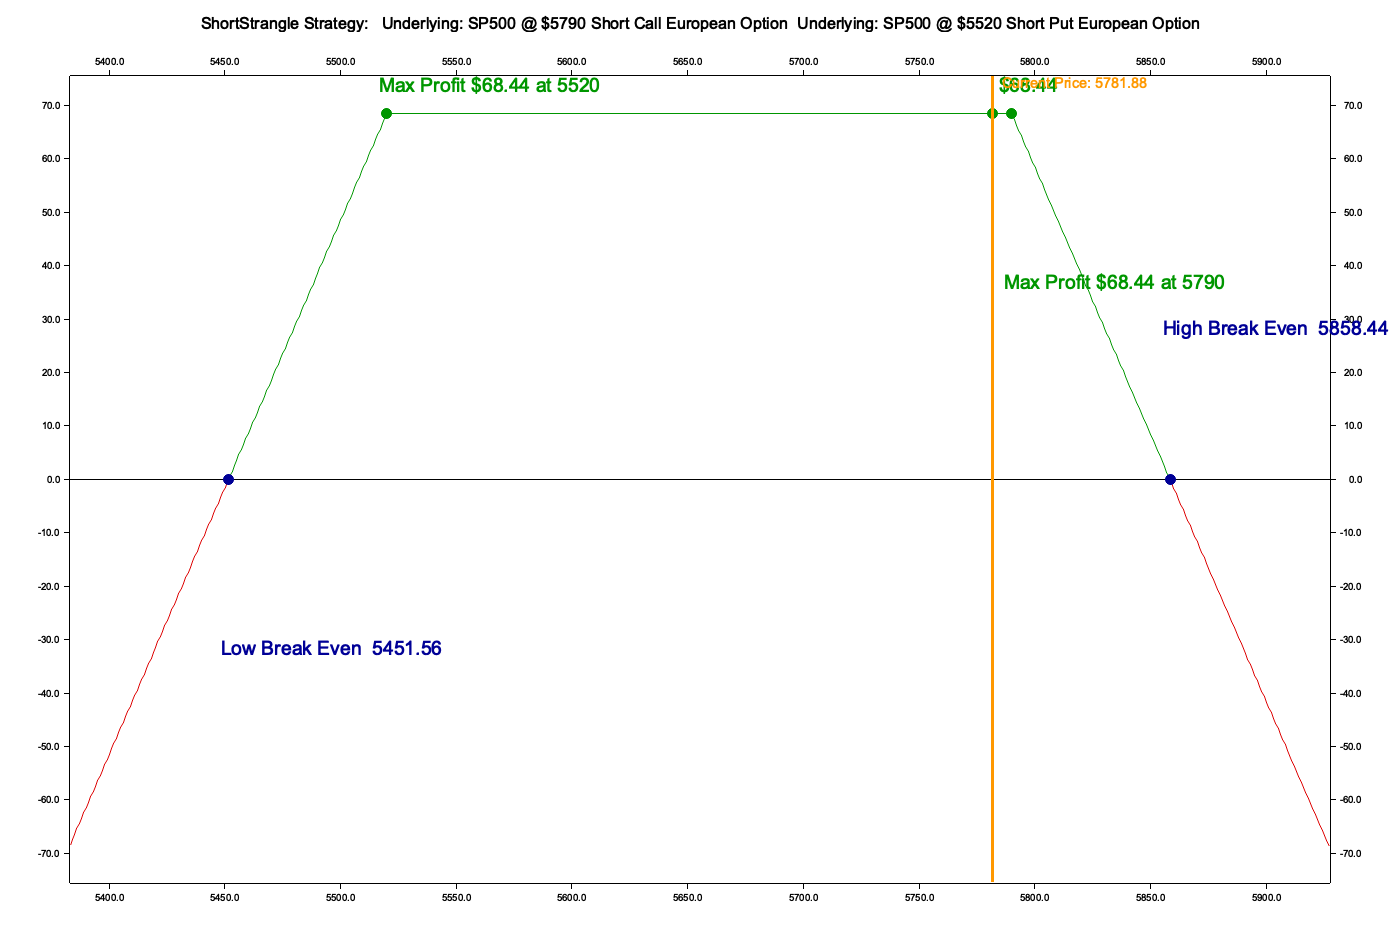
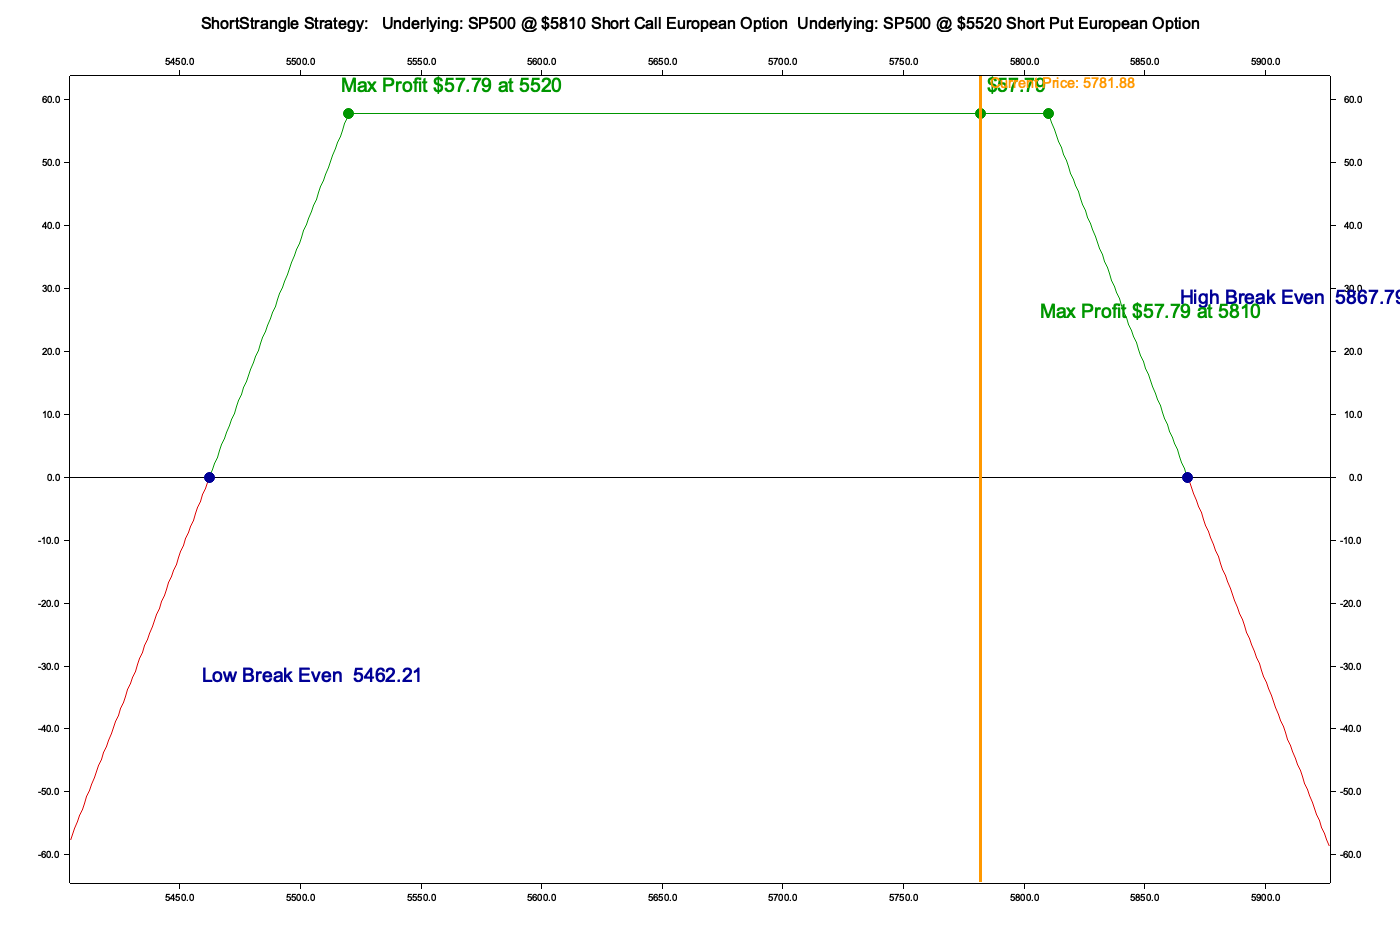
Add DeltaRange filter for strategies and improve delta handling
Introduced a new `DeltaRange` filter to `FindOptimalSide`, enabling delta-based option selection for strategies. Updated relevant methods and examples to support and utilize this new filter. Also added utility methods for delta retrieval and adjusted strategy logic to consider delta sensitivity.

diff --git a/src/strategies/poor_mans_covered_call.rs b/src/strategies/poor_mans_covered_call.rs
@@ -54,7 +54,7 @@ use plotters::prelude::full_palette::ORANGE;
 use plotters::prelude::{RED, ShapeStyle};
 use rust_decimal::Decimal;
 use std::error::Error;
-use tracing::{debug, error};
+use tracing::debug;
 
 const PMCC_DESCRIPTION: &str = "A Poor Man's Covered Call (PMCC) is an options strategy that simulates a covered call \
     using long-term equity anticipation securities (LEAPS) instead of the underlying stock. \
@@ -586,94 +586,6 @@ impl Optimizable for PoorMansCoveredCall {
                     *self = strategy.clone();
                 }
             }
-        }
-    }
-
-    fn is_valid_short_option(&self, option: &OptionData, side: &FindOptimalSide) -> bool {
-        let underlying_price = self.short_call.option.underlying_price;
-        if underlying_price == Positive::ZERO {
-            error!("Invalid underlying_price option");
-            return false;
-        }
-
-        match side {
-            FindOptimalSide::Upper => {
-                let valid = option.strike_price >= underlying_price;
-                if !valid {
-                    debug!(
-                        "Short Option is out of range: {} <= {}",
-                        option.strike_price, underlying_price
-                    );
-                }
-                valid
-            }
-            FindOptimalSide::Lower => {
-                let valid = option.strike_price <= underlying_price;
-                if !valid {
-                    debug!(
-                        "Short Option is out of range: {} >= {}",
-                        option.strike_price, underlying_price
-                    );
-                }
-                valid
-            }
-            FindOptimalSide::All => true,
-            FindOptimalSide::Range(start, end) => {
-                let valid = option.strike_price >= *start && option.strike_price <= *end;
-                if !valid {
-                    debug!(
-                        " Short Option is out of range: {} >= {} && {} <= {}",
-                        option.strike_price, *start, option.strike_price, *end
-                    );
-                }
-                valid
-            }
-            FindOptimalSide::Deltable(_threshold) => true,
-            FindOptimalSide::Center => option.strike_price <= self.get_underlying_price(),
-        }
-    }
-
-    fn is_valid_long_option(&self, option: &OptionData, side: &FindOptimalSide) -> bool {
-        let underlying_price = self.long_call.option.underlying_price;
-        if underlying_price == Positive::ZERO {
-            error!("Invalid underlying_price option");
-            return false;
-        }
-
-        match side {
-            FindOptimalSide::Upper => {
-                let valid = option.strike_price >= underlying_price;
-                if !valid {
-                    debug!(
-                        "Long Option is out of range: {} <= {}",
-                        option.strike_price, underlying_price
-                    );
-                }
-                valid
-            }
-            FindOptimalSide::Lower => {
-                let valid = option.strike_price <= underlying_price;
-                if !valid {
-                    debug!(
-                        "Long Option is out of range: {} >= {}",
-                        option.strike_price, underlying_price
-                    );
-                }
-                valid
-            }
-            FindOptimalSide::All => true,
-            FindOptimalSide::Range(start, end) => {
-                let valid = option.strike_price >= *start && option.strike_price <= *end;
-                if !valid {
-                    debug!(
-                        "Long Option is out of range: {} >= {} && {} <= {}",
-                        option.strike_price, *start, option.strike_price, *end
-                    );
-                }
-                valid
-            }
-            FindOptimalSide::Deltable(_threshold) => true,
-            FindOptimalSide::Center => option.strike_price >= self.get_underlying_price(),
         }
     }
 

diff --git a/src/strategies/strangle.rs b/src/strategies/strangle.rs
@@ -568,13 +568,23 @@ impl Optimizable for ShortStrangle {
             .get_double_iter()
             // Filter out invalid combinations based on FindOptimalSide
             .filter(move |(short_put, short_call)| {
-                if side == FindOptimalSide::Center {
-                    short_put.is_valid_optimal_side(underlying_price, &FindOptimalSide::Lower)
-                        && short_call
-                            .is_valid_optimal_side(underlying_price, &FindOptimalSide::Upper)
-                } else {
-                    short_put.is_valid_optimal_side(underlying_price, &side)
-                        && short_call.is_valid_optimal_side(underlying_price, &side)
+                match side {
+                    FindOptimalSide::DeltaRange(min, max) => {
+                        let (_, delta_put) = short_put.current_deltas();
+                        let (delta_call,_) = short_call.current_deltas();
+                         delta_put.unwrap() > min && delta_put.unwrap() < max &&
+                            delta_call.unwrap() > min && delta_call.unwrap() < max
+                    }
+                    FindOptimalSide::Center=> {
+                            short_put.is_valid_optimal_side(underlying_price, &FindOptimalSide::Lower)
+                                && short_call
+                                    .is_valid_optimal_side(underlying_price, &FindOptimalSide::Upper)
+                    }
+                    _ => {
+                        short_put.is_valid_optimal_side(underlying_price, &side)
+                               && short_call.is_valid_optimal_side(underlying_price, &side)
+                    }
+
                 }
             })
             .filter(move |(short_put, short_call)| short_put.strike_price < short_call.strike_price)
@@ -1451,15 +1461,24 @@ impl Optimizable for LongStrangle {
         let strategy = self.clone();
         option_chain
             .get_double_iter()
-            // Filter out invalid combinations based on FindOptimalSide
             .filter(move |(long_put, long_call)| {
-                if side == FindOptimalSide::Center {
-                    long_put.is_valid_optimal_side(underlying_price, &FindOptimalSide::Lower)
-                        && long_call
+                match side {
+                    FindOptimalSide::DeltaRange(min, max) => {
+                        let (_, delta_put) = long_put.current_deltas();
+                        let (delta_call,_) = long_call.current_deltas();
+                        delta_put.unwrap() > min && delta_put.unwrap() < max && 
+                            delta_call.unwrap() > min && delta_call.unwrap() < max
+                    }
+                    FindOptimalSide::Center=> {
+                        long_put.is_valid_optimal_side(underlying_price, &FindOptimalSide::Lower)
+                            && long_call
                             .is_valid_optimal_side(underlying_price, &FindOptimalSide::Upper)
-                } else {
-                    long_put.is_valid_optimal_side(underlying_price, &side)
-                        && long_call.is_valid_optimal_side(underlying_price, &side)
+                    }
+                    _ => {
+                        long_put.is_valid_optimal_side(underlying_price, &side)
+                            && long_call.is_valid_optimal_side(underlying_price, &side)
+                    }
+                    
                 }
             })
             .filter(move |(long_put, long_call)| long_put.strike_price < long_call.strike_price)
@@ -1474,6 +1493,7 @@ impl Optimizable for LongStrangle {
                     first: long_put,
                     second: long_call,
                 };
+                
                 let strategy = strategy.create_strategy(option_chain, &legs);
                 strategy.validate() && strategy.max_profit().is_ok() && strategy.max_loss().is_ok()
             })

diff --git a/examples/examples_strategies_best/src/bin/strategy_short_strangle_best_area.rs b/examples/examples_strategies_best/src/bin/strategy_short_strangle_best_area.rs
@@ -3,20 +3,24 @@ use optionstratlib::Positive;
 use optionstratlib::chains::chain::OptionChain;
 use optionstratlib::greeks::Greeks;
 use optionstratlib::pos;
-use optionstratlib::strategies::ShortStrangle;
+use optionstratlib::strategies::{DeltaNeutrality, ShortStrangle};
 use optionstratlib::strategies::base::{Optimizable, Strategies};
 use optionstratlib::strategies::utils::FindOptimalSide;
 use optionstratlib::utils::setup_logger;
 use optionstratlib::visualization::utils::{Graph, GraphBackend};
 use rust_decimal::Decimal;
 use std::error::Error;
+use rust_decimal_macros::dec;
 use tracing::{debug, info};
+use optionstratlib::utils::time::get_tomorrow_formatted;
 
 fn main() -> Result<(), Box<dyn Error>> {
     setup_logger();
 
-    let option_chain =
+    let mut option_chain =
         OptionChain::load_from_json("./examples/Chains/SP500-18-oct-2024-5781.88.json")?;
+    option_chain.update_expiration_date(get_tomorrow_formatted());
+    info!("Option Chain:  {}", option_chain);
     let underlying_price = option_chain.underlying_price;
     let mut strategy = ShortStrangle::new(
         "SP500".to_string(),
@@ -36,7 +40,8 @@ fn main() -> Result<(), Box<dyn Error>> {
         pos!(0.82),     // close_fee_short_put
     );
     // strategy.best_area(&option_chain, FindOptimalSide::Range(pos!(5700.0), pos!(6100.0)));
-    strategy.best_area(&option_chain, FindOptimalSide::Center);
+    strategy.best_area(&option_chain, FindOptimalSide::DeltaRange(dec!(-0.3), dec!(0.3)));
+    // strategy.best_area(&option_chain, FindOptimalSide::Center);
     debug!("Strategy:  {:#?}", strategy);
     let range = strategy.range_of_profit().unwrap_or(Positive::ZERO);
     info!("Title: {}", strategy.title());
@@ -60,7 +65,7 @@ fn main() -> Result<(), Box<dyn Error>> {
         (range / 2.0) / underlying_price * 100.0
     );
     info!("Profit Area: {:.2}%", strategy.profit_area()?);
-
+    info!("Delta:  {:#?}", strategy.delta_neutrality()?);
     if strategy.profit_ratio()? > Positive::ZERO.into() {
         debug!("Strategy:  {:#?}", strategy);
         strategy.graph(

diff --git a/src/chains/optiondata.rs b/src/chains/optiondata.rs
@@ -800,6 +800,11 @@ impl OptionData {
             FindOptimalSide::Center => {
                 panic!("Center should be managed by the strategy");
             }
+            FindOptimalSide::DeltaRange(min,max) => {
+                
+                (self.delta_put.is_some() && self.delta_put.unwrap() >= *min && self.delta_put.unwrap() <= *max) ||
+                    (self.delta_call.is_some() && self.delta_call.unwrap() >= *min && self.delta_call.unwrap() <= *max)
+            },
         }
     }
 
@@ -1049,6 +1054,24 @@ impl OptionData {
             short_put,
         }));
         Ok(())
+    }
+
+    /// Returns a tuple containing the current delta values for both call and put options.
+    ///
+    /// This method provides access to the option's delta values, which measure the rate of change
+    /// of the option price with respect to changes in the underlying asset price. Delta values 
+    /// typically range from -1 to 1 and are a key metric for understanding option price sensitivity.
+    ///
+    /// # Returns
+    ///
+    /// A tuple containing:
+    /// * First element: `Option<Decimal>` - The delta value for the call option. May be `None` if 
+    ///   the delta value is not available or could not be calculated.
+    /// * Second element: `Option<Decimal>` - The delta value for the put option. May be `None` if
+    ///   the delta value is not available or could not be calculated.
+    ///
+    pub fn current_deltas(&self) -> (Option<Decimal>, Option<Decimal>) {
+        (self.delta_call, self.delta_put)
     }
 }
 

diff --git a/src/chains/chain.rs b/src/chains/chain.rs
@@ -569,6 +569,10 @@ impl OptionChain {
                 FindOptimalSide::Center => {
                     panic!("Center should be managed by the strategy");
                 }
+                FindOptimalSide::DeltaRange(min,max) => {
+                    (option.delta_put.is_some() && option.delta_put.unwrap() >= min && option.delta_put.unwrap() <= max) ||
+                    (option.delta_call.is_some() && option.delta_call.unwrap() >= min && option.delta_call.unwrap() <= max)
+                },
             })
             .collect()
     }
@@ -610,6 +614,10 @@ impl OptionChain {
                 FindOptimalSide::Center => {
                     panic!("Center should be managed by the strategy");
                 }
+                FindOptimalSide::DeltaRange(min,max) => {
+                    (option.delta_put.is_some() && option.delta_put.unwrap() >= min && option.delta_put.unwrap() <= max) ||
+                        (option.delta_call.is_some() && option.delta_call.unwrap() >= min && option.delta_call.unwrap() <= max)
+                },
             })
             .map(|option| option.get_options_in_strike(price_params, Side::Long, OptionStyle::Call))
             .collect()

diff --git a/src/strategies/utils.rs b/src/strategies/utils.rs
@@ -6,6 +6,7 @@
 
 use crate::model::positive::Positive;
 use std::fmt::Display;
+use rust_decimal::Decimal;
 
 /// Defines the strategy for finding optimal pricing sides.
 ///
@@ -85,6 +86,9 @@ pub enum FindOptimalSide {
     /// optimize strategy parameters around that central point. It's commonly used for
     /// constructing balanced spreads or when you have a precise market outlook.
     Center,
+
+    /// Select strikes in a strategy that ensure delta is within a specified range.
+    DeltaRange(Decimal, Decimal)
 }
 
 impl Display for FindOptimalSide {
@@ -96,6 +100,7 @@ impl Display for FindOptimalSide {
             FindOptimalSide::Range(start, end) => write!(f, "Range: {} - {}", start, end),
             FindOptimalSide::Deltable(threshold) => write!(f, "Deltable: {}", threshold),
             FindOptimalSide::Center => write!(f, "Center"),
+            FindOptimalSide::DeltaRange(min, max) => write!(f, "DeltaRange: {} - {}", min, max),
         }
     }
 }

diff --git a/examples/examples_chain/src/bin/option_chain_raw_delta.rs b/examples/examples_chain/src/bin/option_chain_raw_delta.rs
@@ -12,12 +12,15 @@ use optionstratlib::visualization::utils::{Graph, GraphBackend};
 use optionstratlib::{ExpirationDate, Positive, pos};
 use rust_decimal::Decimal;
 use tracing::{debug, info};
+use optionstratlib::utils::time::get_tomorrow_formatted;
 
 fn main() -> Result<(), Box<dyn std::error::Error>> {
     setup_logger();
+
     let mut option_chain =
-        OptionChain::load_from_json("examples/Chains/DAX-30-jan-2025-21637.0.json")?;
+        OptionChain::load_from_json("examples/Chains/SP500-18-oct-2024-5781.88.json")?;
     info!("Chain loaded");
+    option_chain.update_expiration_date(get_tomorrow_formatted());
     option_chain.update_greeks();
     info!("{}", &option_chain);
 

diff --git a/src/strategies/base.rs b/src/strategies/base.rs
@@ -809,6 +809,11 @@ pub trait Optimizable: Validable + Strategies {
             FindOptimalSide::Center => {
                 panic!("Center should be managed by the strategy");
             }
+            FindOptimalSide::DeltaRange(min,max) => {
+                let (delta_call, delta_put) = option.current_deltas();
+                (delta_put.is_some() && delta_put.unwrap() >= *min && delta_put.unwrap() <= *max) ||
+                    (delta_call.is_some() && delta_call.unwrap() >= *min && delta_call.unwrap() <= *max)
+            },
         }
     }
 

diff --git a/examples/examples_simulation/src/bin/delta_hedging.rs b/examples/examples_simulation/src/bin/delta_hedging.rs
@@ -131,7 +131,7 @@ fn core(
         fee,     // open_fee_short_put
         fee,     // close_fee_short_put
     );
-    strategy.best_ratio(&option_chain, FindOptimalSide::Center);
+    strategy.best_ratio(&option_chain, FindOptimalSide::DeltaRange(dec!(-0.3), dec!(0.3)));
     debug!("Strategy:  {:#?}", strategy);
     
     let positions = strategy.get_positions()?;
@@ -218,7 +218,5 @@ fn main() -> Result<(), Box<dyn Error>> {
     }
     
     save_pnl_metrics(&pnl_results,"examples/Data/gc-1m_short_strangle_metrics.json")?;
-    
-    
     Ok(())
 }
